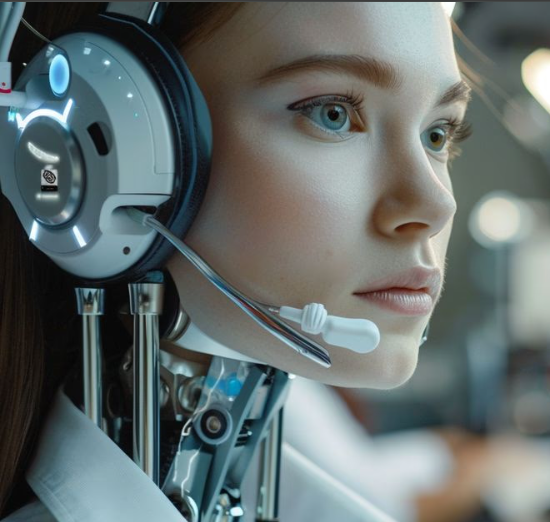
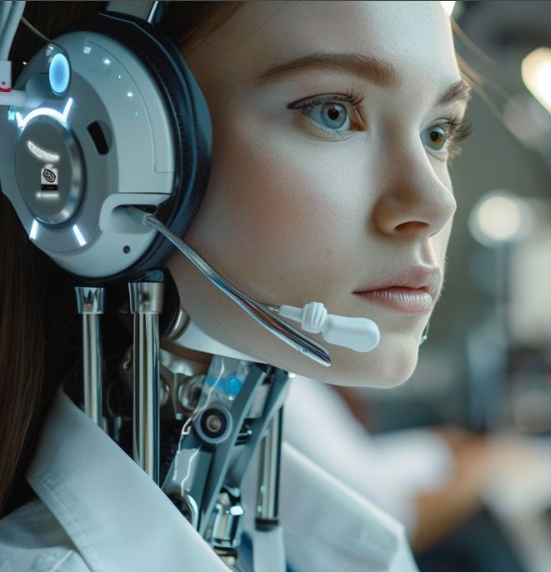
LoRA commit

diff --git a/web/index.html b/web/index.html
@@ -297,7 +297,7 @@
                     <div class="col-lg-4 col-md-6 col-sm-12 portfolio-item filter-1 wow slideInDown" data-wow-delay="1s">
                         <div class="portfolio-wrap">
                             <div class="portfolio-img">
-                                <img src="img/call2.png" alt="Image">
+                                <img src="img/call7.png" alt="Image">
                             </div>
                             <div class="portfolio-text">
                                 <h3>Smart Calls: AI Feedback</h3>
